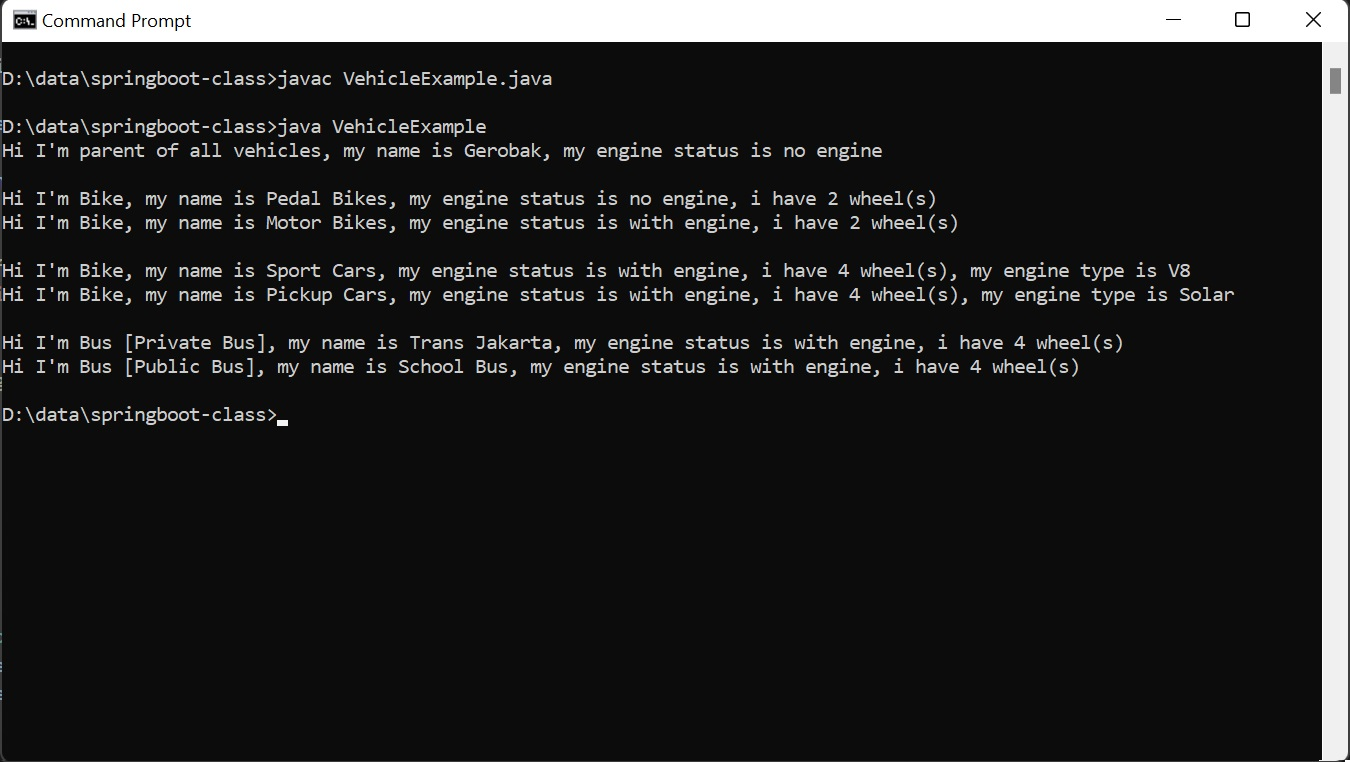
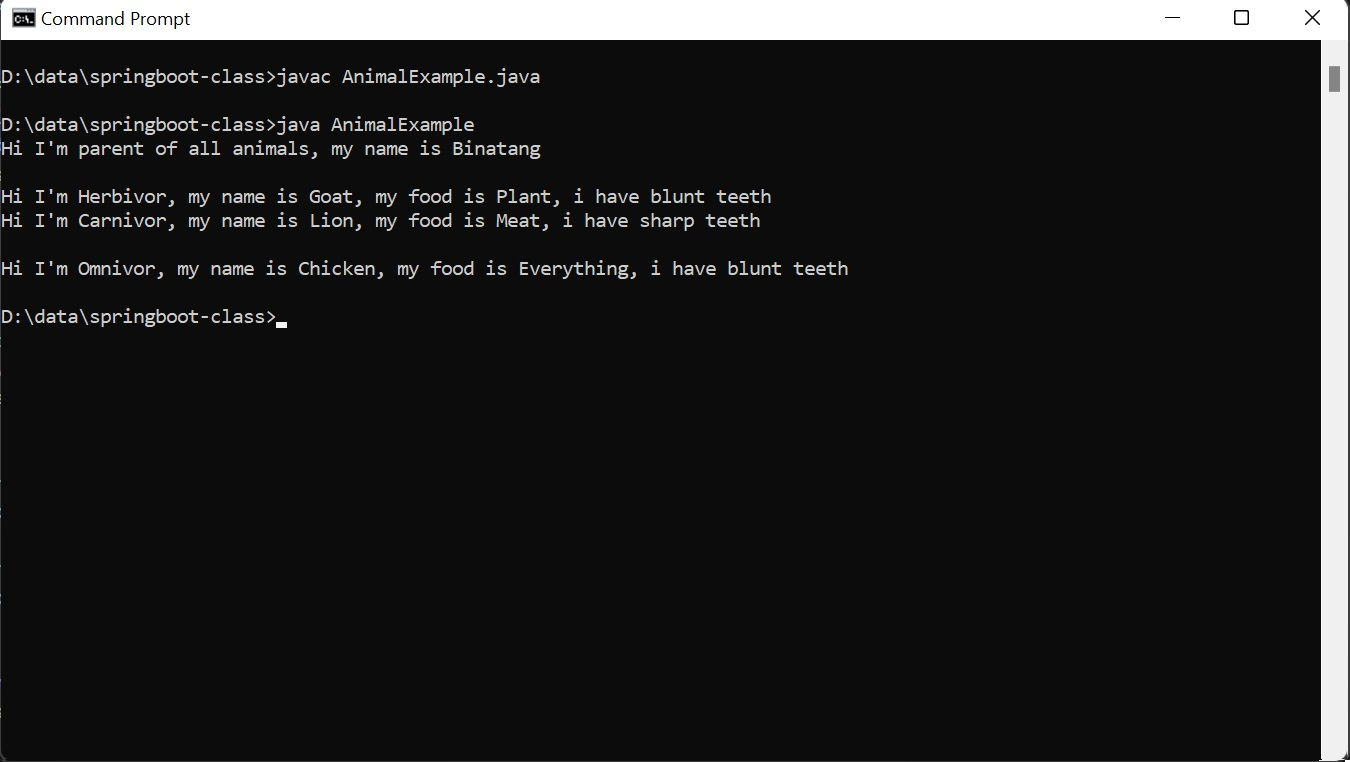
Create an example of inheritance & polymorphism with animal

diff --git a/AnimalExample.java b/AnimalExample.java
@@ -1,0 +1,90 @@
+class Animal {
+    protected String name;
+    protected String food;
+    protected boolean hasSharpTeeth;
+
+    public Animal(String name){
+        this.name = name;
+    }
+
+    public Animal(String name, String food, boolean hasSharpTeeth){
+        this.name = name;
+        this.food = food;
+        this.hasSharpTeeth = hasSharpTeeth;
+    }
+
+    public void identifyMyself(){
+        System.out.println("Hi I'm parent of all animals, my name is " + name);
+    }
+
+    public String parseHasSharpTeeth(){
+        String teeth = hasSharpTeeth? "sharp teeth" : "blunt teeth";
+        return teeth;
+    }
+}
+
+class Herbivor extends Animal {
+    public Herbivor(String name, String food, boolean hasSharpTeeth){
+        super(name, food, hasSharpTeeth);
+    }
+
+    public static Herbivor construct(String name, String food, boolean hasSharpTeeth) {
+        if (hasSharpTeeth) return null;
+        else if (food != "Plant") return null;
+        else return new Herbivor(name, food, hasSharpTeeth);
+    }
+
+    public void identifyMyself(){
+        System.out.println("Hi I'm Herbivor, my name is " + name + 
+        ", my food is " + food + 
+        ", i have " + parseHasSharpTeeth());
+    }
+}
+
+class Carnivor extends Animal {
+    public Carnivor(String name, String food, boolean hasSharpTeeth){
+        super(name, food, hasSharpTeeth);
+    }
+
+    public static Carnivor construct(String name, String food, boolean hasSharpTeeth) {
+        if (!hasSharpTeeth) return null;
+        else if (food != "Meat") return null;
+        else return new Carnivor(name, food, hasSharpTeeth);
+    }
+
+    public void identifyMyself(){
+        System.out.println("Hi I'm Carnivor, my name is " + name + 
+        ", my food is " + food + 
+        ", i have " + parseHasSharpTeeth());
+    }
+}
+
+class Omnivor extends Animal {
+    public Omnivor(String name, String food, boolean hasSharpTeeth){
+        super(name, food, hasSharpTeeth);
+    }
+
+    public void identifyMyself(){
+        System.out.println("Hi I'm Omnivor, my name is " + name + 
+        ", my food is " + food + 
+        ", i have " + parseHasSharpTeeth());
+    }
+}
+
+public class AnimalExample {
+    public static void main(String[] args) {
+        Animal objAnimal = new Animal("Binatang");
+        objAnimal.identifyMyself();
+
+        System.out.println();
+        Herbivor objGoat = Herbivor.construct("Goat", "Plant", false);
+        if(objGoat != null) objGoat.identifyMyself();
+        
+        Carnivor objLion = Carnivor.construct("Lion", "Meat", true);
+        if(objLion != null) objLion.identifyMyself();
+
+        System.out.println();
+        Omnivor objChicken = new Omnivor("Chicken", "Everything", false);
+        objChicken.identifyMyself();
+    }
+}

diff --git a/README.md b/README.md
@@ -1,3 +1,3 @@
-## Vehicle Class Inheritance
+## Animal Class Inheritance & Polymorphism
 
 ![screenshot](screenshot.jpg)
